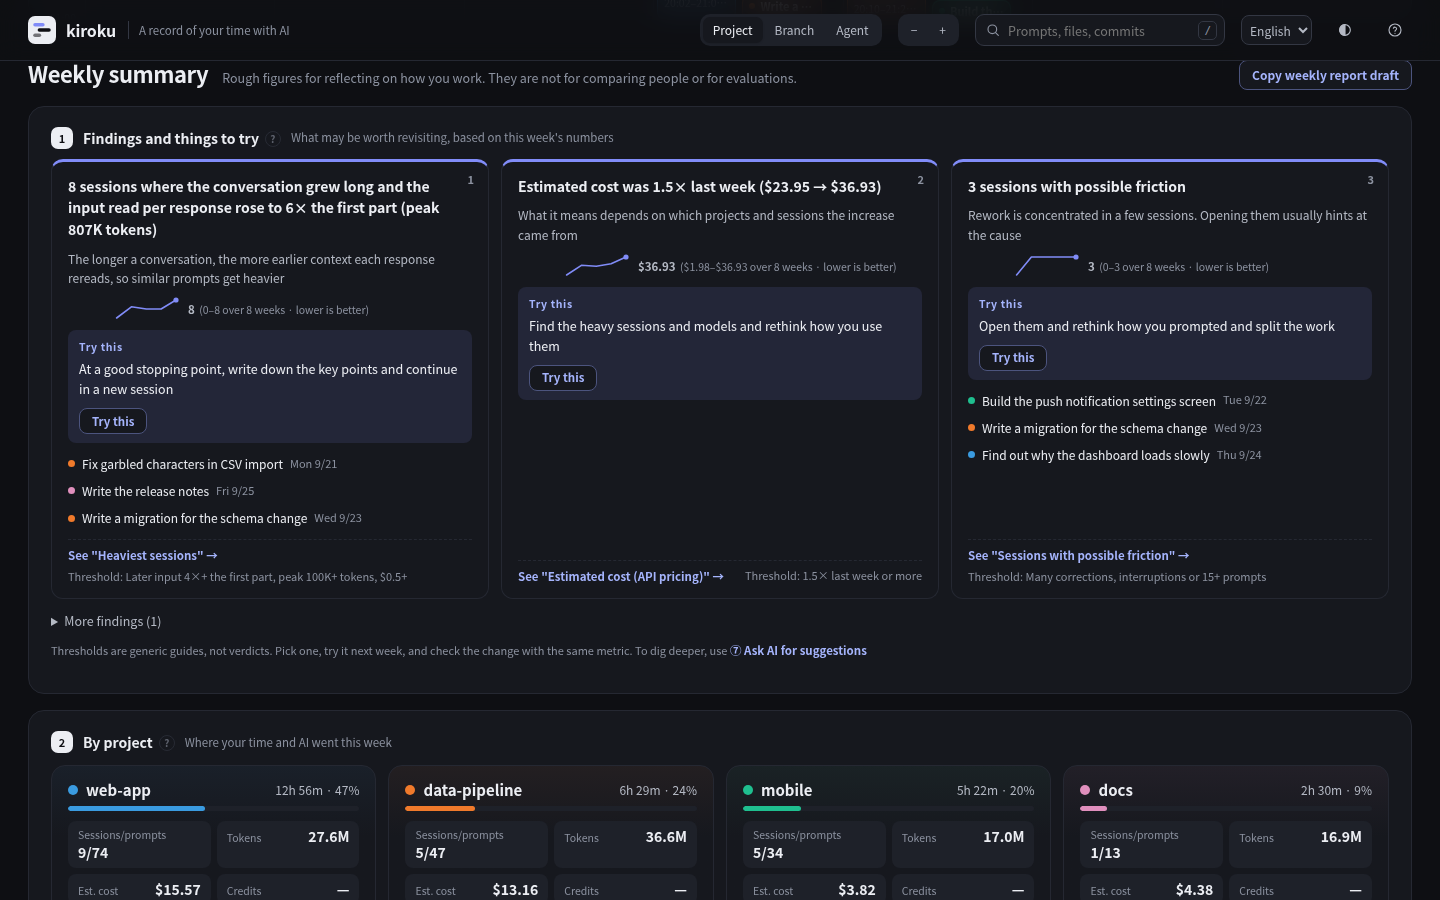
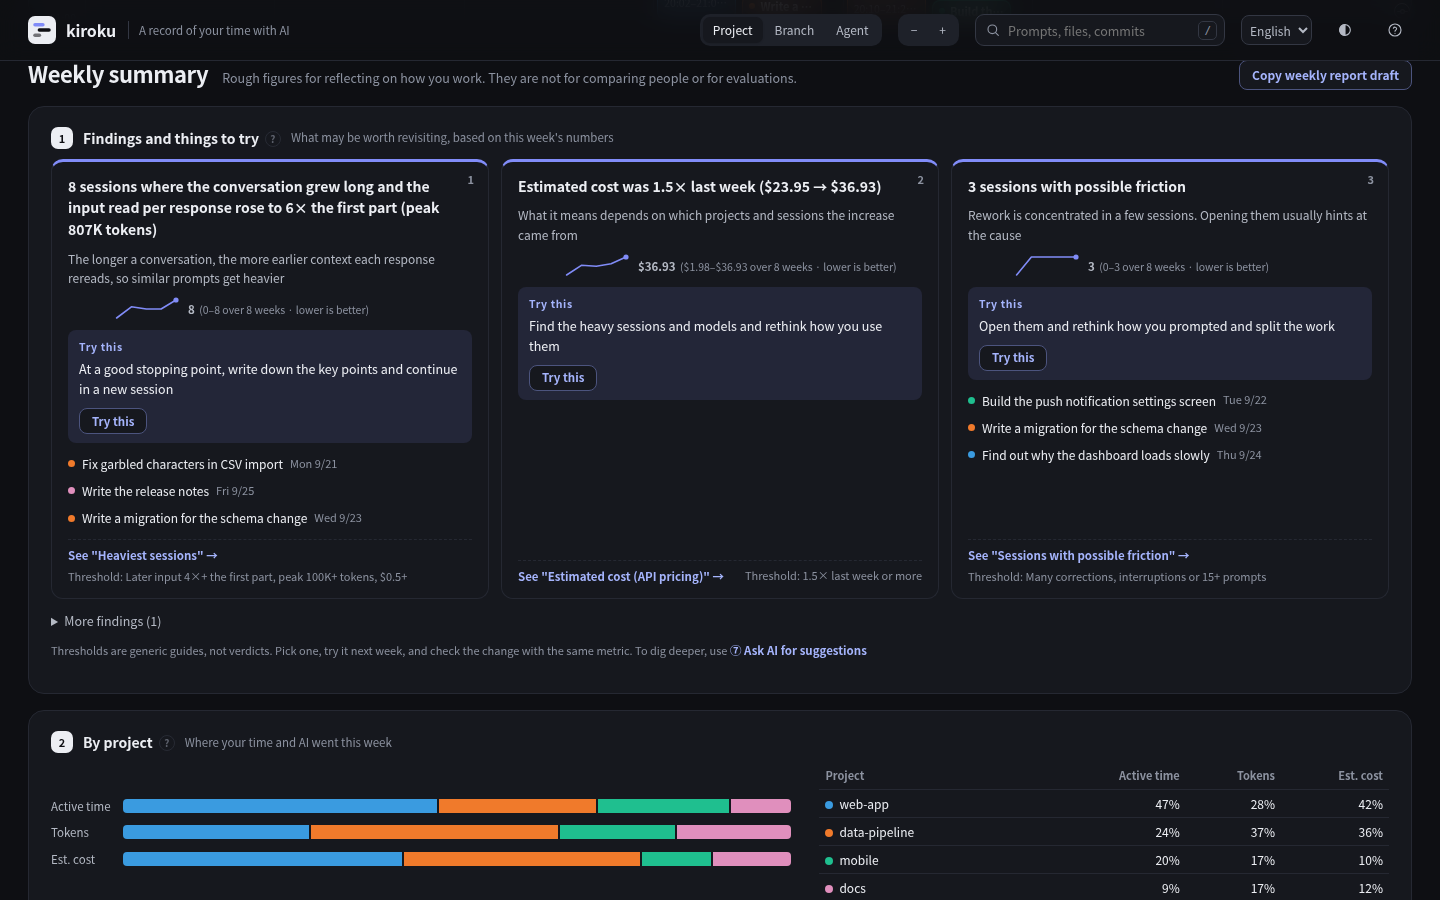
プロジェクト別に、時間・トークン・目安コスト・クレジットの配分を帯と表で見比べられるようにする
指標ごとの 100% の帯を縦に並べ、「時間の割に目安コストが多い」のようなずれをひと目でわかるようにする。
上位 5 つ＋その他。色だけに頼らないよう、割合の表を添える。広い画面では帯と表を横に並べる。

Claude-Session: https://claude.ai/code/session_01WXnCm54bK3Mj4QdxNoNc9j

diff --git a/internal/web/template.html b/internal/web/template.html
@@ -220,6 +220,17 @@ kbd{font:11px/1 var(--mono);padding:3px 5px;border-radius:5px;border:1px solid v
 .moreS .stats{margin-top:8px}
 .ocl{font:600 11px/1 var(--sans);letter-spacing:.06em;color:var(--ink-3);margin:6px 0 -6px}
 .stats.s3{grid-template-columns:repeat(3,minmax(0,1fr))}
+.sharebox{display:grid;grid-template-columns:minmax(0,1.3fr) minmax(0,1fr);gap:8px 28px;align-items:center;margin-top:10px}
+@media (max-width:1000px){.sharebox{grid-template-columns:minmax(0,1fr)}}
+.share{display:grid;grid-template-columns:auto minmax(0,1fr);gap:8px 12px;align-items:center}
+.share .k{font-size:11.5px;color:var(--ink-2);white-space:nowrap}
+.share .stack{margin:0;height:14px;border-radius:4px}
+.shtab{width:100%;border-collapse:collapse;font-size:12px;font-variant-numeric:tabular-nums}
+.shtab th,.shtab td{padding:4px 6px;text-align:right;border-bottom:1px solid var(--rule)}
+.shtab th{font-weight:600;color:var(--ink-3);font-size:11px}
+.shtab th:first-child,.shtab td:first-child{text-align:left;max-width:0;width:40%;overflow:hidden;text-overflow:ellipsis;white-space:nowrap}
+.shtab td:first-child i{display:inline-block;width:8px;height:8px;border-radius:50%;background:var(--c);margin-right:6px}
+.shtab tr:last-child td{border-bottom:0}
 .pgrid{display:grid;grid-template-columns:repeat(auto-fill,minmax(310px,1fr));gap:12px;margin-top:12px}
 .pcard{border:1px solid var(--rule);border-radius:14px;padding:14px 16px 12px;display:flex;flex-direction:column;gap:10px;min-width:0;
   background:linear-gradient(180deg,color-mix(in oklab,var(--c) 7%,var(--surface)),var(--surface) 70px)}
@@ -928,6 +939,22 @@ const uThis = unit => tr(`この${unit}`, unit === "月" ? "this month" : "this 
 const uLast = unit => tr(`先${unit}`, unit === "月" ? "last month" : "last week");
 const uNext = unit => tr(`次の${unit}`, unit === "月" ? "next month" : "next week");
 const whyOf = f => EN() && f.whyEn && f.whyEn.length === f.why.length ? f.whyEn : f.why; // こじれた理由（Go が両方の言語で書く）
+/* プロジェクトごとの配分：作業時間・トークン・目安コスト・クレジットのそれぞれで、何割をどのプロジェクトに使ったか。
+   指標を縦に並べ、「時間の割にコストが多い」のようなずれを見比べられるようにする（上位 5 つ＋その他） */
+function shareBlock(ps){
+  if (ps.length < 2) return "";
+  const N = 5, top = ps.slice(0, N), rest = ps.slice(N);
+  const rows = [...top.map((p, i) => ({name: p.project, c: st.colorBy === "project" ? colorOf(p.project) : `var(--c${i})`, v: p}))];
+  if (rest.length) rows.push({name: tr(`その他（${rest.length}）`, `Other (${rest.length})`), c: "var(--other)", other: true,
+    v: rest.reduce((a, p) => ({minutes: a.minutes + p.minutes, tokens: a.tokens + p.tokens, cost: a.cost + p.cost, credits: a.credits + p.credits}), {minutes: 0, tokens: 0, cost: 0, credits: 0})});
+  const ms = [["minutes", tr("作業時間", "Active time"), dur], ["tokens", tr("トークン", "Tokens"), tok], ["cost", tr("目安コスト", "Est. cost"), usd], ["credits", tr("クレジット", "Credits"), cr]]
+    .map(([k, n, f]) => ({k, n, f, t: rows.reduce((t, r) => t + (r.v[k] || 0), 0)})).filter(m => m.t > 0);
+  if (!ms.length) return "";
+  const pc = (r, m) => Math.round((r.v[m.k] || 0) * 100 / m.t);
+  const bars = ms.map(m => `<span class="k">${m.n}</span><div class="stack" role="img" aria-label="${esc(`${m.n}: ${rows.map(r => `${r.name} ${pc(r, m)}%`).join(", ")}`)}">${rows.filter(r => r.v[m.k] > 0).map(r => `<span style="flex:${r.v[m.k]};--c:${r.c}" title="${esc(`${r.name}: ${m.f(r.v[m.k])} (${pc(r, m)}%)`)}"></span>`).join("")}</div>`).join("");
+  const tab = `<table class="shtab"><thead><tr><th scope="col">${tr("プロジェクト", "Project")}</th>${ms.map(m => `<th scope="col">${m.n}</th>`).join("")}</tr></thead><tbody>${rows.map(r => `<tr style="--c:${r.c}"><td title="${esc(r.name)}"><i aria-hidden="true"></i>${esc(r.name)}</td>${ms.map(m => `<td>${r.v[m.k] ? pc(r, m) + "%" : "—"}</td>`).join("")}</tr>`).join("")}</tbody></table>`;
+  return `<div class="sharebox"><div class="share">${bars}</div>${tab}</div>`;
+}
 /* プロジェクト別：何に何時間、どれだけのトークン・コスト・クレジットを、どのモデル中心に使い、何が重かったか */
 function projectPanel(w, ph, unit){
   const ps = w.projectStats || []; if (!ps.length) return "";
@@ -949,6 +976,7 @@ function projectPanel(w, ph, unit){
       ${p.heavy && use(p.heavy) ? `<button class="pheavy" data-id="${esc(p.heavy.id)}"><em>${tr("いちばん重い", "Heaviest")}</em><span class="t">${esc(p.heavy.title)}</span><span class="m">${use(p.heavy)}</span></button>` : ""}
     </article>`; }).join("");
   return `<section class="panel projs">${ph(2, tr("プロジェクト別", "By project"), tr(`この${unit}、どのプロジェクトに時間と AI を使ったか`, `Where your time and AI went ${uThis(unit)}`), "projects")}
+    ${shareBlock(ps)}
     <div class="pgrid">${cards}</div>
     ${ps.length > LIMIT ? `<button class="pill pmore" id="pmore">${st.allProj ? tr("上位だけにする", "Show top projects only") : tr(`ほか ${ps.length - LIMIT} プロジェクトも見る`, `Show ${plural(ps.length - LIMIT, "more project")}`)}</button>` : ""}</section>`;
 

diff --git a/docs/guide.md b/docs/guide.md
@@ -56,7 +56,7 @@ go install github.com/MichinaoShimizu/kiroku@latest
   - セッションの「変更したファイル」：そのセッションの間のコミットで変わったファイルなら、そのコミットでのファイルのページを開きます
   - セッションの「作った PR」：AI が作った PR（`gh pr create` や GitHub のツールの結果に出た URL）を開きます
   - セッションの「履歴ファイル」：そのセッションの元の履歴を開きます。`kiroku serve` では画面から（読み込んだセッションの履歴ファイルだけを、手元の画面にだけ返します）、`kiroku html` では `file://` で開きます。SQLite の履歴は開けないので、パスのコピーだけです
-- カレンダーの下に、週次・月次サマリーを表示します。いちばん上の ① 気づきと、試せること では、基準を超えた指標を「見えたこと・試せること・該当するセッション・基準」の形で優先度の高い順に 3 件まで示します。「〜を見る」を押すと元の指標へ移動し、説明を開きます。各カードには、その指標の 8 週（月表示では 8 か月）の推移を表示します。「これを試す」を押すと、その期間の値を記録し、次の期間以降を開いたときに「試す前 → 今」の値と、望ましい方向に変わったかを表示します（記録はブラウザに保存され、1 つだけ持てます）。② プロジェクト別のカードでは、プロジェクトごとに「どのセッションに何時間、どれだけのトークン・目安コスト・クレジットを、どのモデルを中心に使い、どれが最も重かったか」と成果の印を示します。③ コストと成果では、使ったもの（作業時間・目安コスト・トークン・クレジット）と残ったもの（コミット・PR・変更した行など）を並べます。続いて ④ 時間の使い方 ⑤ AI の使い方 ⑥ 週 / 月のかたち、最後に ⑦ AI に改善案を聞く が表示されます。④ 時間の使い方では、推定を含む指標（言い直し・中断、切り替え、並列、待たせ時間）を「詳しい指標」に折りたたんでいます
+- カレンダーの下に、週次・月次サマリーを表示します。いちばん上の ① 気づきと、試せること では、基準を超えた指標を「見えたこと・試せること・該当するセッション・基準」の形で優先度の高い順に 3 件まで示します。「〜を見る」を押すと元の指標へ移動し、説明を開きます。各カードには、その指標の 8 週（月表示では 8 か月）の推移を表示します。「これを試す」を押すと、その期間の値を記録し、次の期間以降を開いたときに「試す前 → 今」の値と、望ましい方向に変わったかを表示します（記録はブラウザに保存され、1 つだけ持てます）。② プロジェクト別では、いちばん上に、作業時間・トークン・目安コスト・クレジットのそれぞれを何割どのプロジェクトに使ったかを、横に並んだ帯と表で示します（上位 5 つ＋その他）。指標どうしを見比べると「時間の割に目安コストが多い」プロジェクトがわかります。その下のカードでは、プロジェクトごとに「どのセッションに何時間、どれだけのトークン・目安コスト・クレジットを、どのモデルを中心に使い、どれが最も重かったか」と成果の印を示します。③ コストと成果では、使ったもの（作業時間・目安コスト・トークン・クレジット）と残ったもの（コミット・PR・変更した行など）を並べます。続いて ④ 時間の使い方 ⑤ AI の使い方 ⑥ 週 / 月のかたち、最後に ⑦ AI に改善案を聞く が表示されます。④ 時間の使い方では、推定を含む指標（言い直し・中断、切り替え、並列、待たせ時間）を「詳しい指標」に折りたたんでいます
 - 各指標の「?」を押すと、定義と、そこから言えること・言えないこと・打てる手を表示します
 - 「AI に改善案を聞く」には、表示中の週・月の集計をもとに、使い方の改善案を AI に聞くためのプロンプトを表示します。「プロンプトをコピー」でコピーし、お使いの AI エージェントに貼り付けて使います（kiroku 自身は AI を呼び出しません）。セッション名（依頼文の一部）とプロジェクト名を含むため、送る前に内容を確認してください
 - 検索（右上、`/`）：依頼文・タイトル・プロジェクト・ブランチに加えて、変更したファイル・PR・そのセッションの間のコミット（件名・ハッシュ・ファイル）も探します。カレンダーは一致したセッションだけを表示し、サマリーの位置に全期間の検索結果（どこに一致したかの抜粋つき）を表示します。結果を押すと、その週を開いて詳細を表示します

diff --git a/docs/guide.en.md b/docs/guide.en.md
@@ -56,7 +56,7 @@ The old forms `kiroku --serve`, `--json` and `-o` still work for now. `--weekly`
   - A session's "Files changed": a file changed by a commit made during that session opens the page for that file as of that commit
   - A session's "Pull requests created": opens pull requests created by AI (URLs that appeared in the results of `gh pr create` or GitHub tools)
   - A session's "History file": opens the original history of that session. In `kiroku serve` it opens from the view (only history files of loaded sessions are served, and only to the view on your machine); in `kiroku html` it opens via `file://`. SQLite histories cannot be opened, so you can only copy the path
-- Below the calendar, the weekly and monthly summary is shown. At the top, ① Findings and things to try shows up to 3 metrics that crossed a threshold, in priority order, as cards with what was observed, "Try this", the related sessions and the "Threshold". Press "See … →" to jump to the original metric and open its explanation. Each card shows that metric's 8-week trend (8 months in month view). Press "Try this" to record the value for that period; when you open later periods, it shows the values "Before → this week" and whether they moved the right way (the record is saved in the browser, and you can keep only one). ② By project shows, for each project, which sessions took how many hours, how many tokens, how much estimated cost and credits, which models were mainly used, and which session was the heaviest, along with output signals. ③ Cost and outputs puts what you spent (active time, estimated cost, tokens, credits) next to what was left behind (commits, pull requests, lines changed and so on). Then come ④ How you spent time, ⑤ How you used AI, ⑥ Shape of the week / month, and finally ⑦ Ask AI for suggestions. In ④ How you spent time, metrics that include estimates (corrections and interruptions, switches, parallel, wait time) are collapsed under "More metrics (includes estimates)"
+- Below the calendar, the weekly and monthly summary is shown. At the top, ① Findings and things to try shows up to 3 metrics that crossed a threshold, in priority order, as cards with what was observed, "Try this", the related sessions and the "Threshold". Press "See … →" to jump to the original metric and open its explanation. Each card shows that metric's 8-week trend (8 months in month view). Press "Try this" to record the value for that period; when you open later periods, it shows the values "Before → this week" and whether they moved the right way (the record is saved in the browser, and you can keep only one). ② By project starts with bars and a table showing what share of active time, tokens, estimated cost and credits went to each project (top 5 plus Other). Comparing the rows shows, for example, a project whose share of estimated cost is larger than its share of time. Below that, the cards show, for each project, which sessions took how many hours, how many tokens, how much estimated cost and credits, which models were mainly used, and which session was the heaviest, along with output signals. ③ Cost and outputs puts what you spent (active time, estimated cost, tokens, credits) next to what was left behind (commits, pull requests, lines changed and so on). Then come ④ How you spent time, ⑤ How you used AI, ⑥ Shape of the week / month, and finally ⑦ Ask AI for suggestions. In ④ How you spent time, metrics that include estimates (corrections and interruptions, switches, parallel, wait time) are collapsed under "More metrics (includes estimates)"
 - Press "?" on any metric to see its definition and what it tells you, what it doesn't tell you, and what to try
 - "Ask AI for suggestions" shows a prompt, based on the figures for the week or month shown, that asks an AI for suggestions on how you use it. Copy it with "Copy prompt" and paste it into the AI agent you use (kiroku itself never calls an AI). It includes session names (parts of your prompts) and project names, so check it before sending
 - Search (top right, `/`): in addition to prompts, titles, projects and branches, it searches files changed, pull requests and commits made during each session (subject, hash, files). The calendar shows only matching sessions, and all-time search results (with excerpts showing where they matched) appear in place of the summary. Press a result to open its week and show the details

diff --git a/README.md b/README.md
@@ -26,7 +26,7 @@ kiroku connects to the network only when `install.sh` or `kiroku update` downloa
 
 - **Calendar**: when, in which project, and what you asked, by week or month. Your local git commits appear alongside, so you can see what changed where.
 - **Findings and things to try**: metrics that crossed a threshold, each with what was observed, why it matters, one thing to try, the related sessions and an 8-week trend. Pick one with "Try this" and the next weeks show the before-and-after.
-- **Summary**: cost (time, tokens, estimated cost, credits) next to outcomes (commits, pull requests, lines edited by AI), by project and by day. Every metric explains what it can and cannot tell you.
+- **Summary**: cost (time, tokens, estimated cost, credits) next to outcomes (commits, pull requests, lines edited by AI), by project and by day. Share bars compare each project's share of time with its share of tokens and cost. Every metric explains what it can and cannot tell you.
 - **Search and weekly report**: search prompts, edited files and commits across all time, and copy a weekly report draft of what you did, your commits and pull requests.
 - **Improvement prompts**: build a prompt from the shown week, month or a single session that asks an AI for suggestions on how you use it. Copy it into the agent you already use.
 

diff --git a/CHANGELOG.md b/CHANGELOG.md
@@ -11,6 +11,7 @@ Notable changes to kiroku. Each release on GitHub uses its section here as the r
 - Live demo with dummy data on GitHub Pages
 - `SECURITY.md` and `CONTRIBUTING.md`
 - The date of the price table used for estimated cost
+- Share bars in "By project": what share of active time, tokens, estimated cost and credits went to each project, side by side, with a table of the percentages
 
 ### Changed
 
